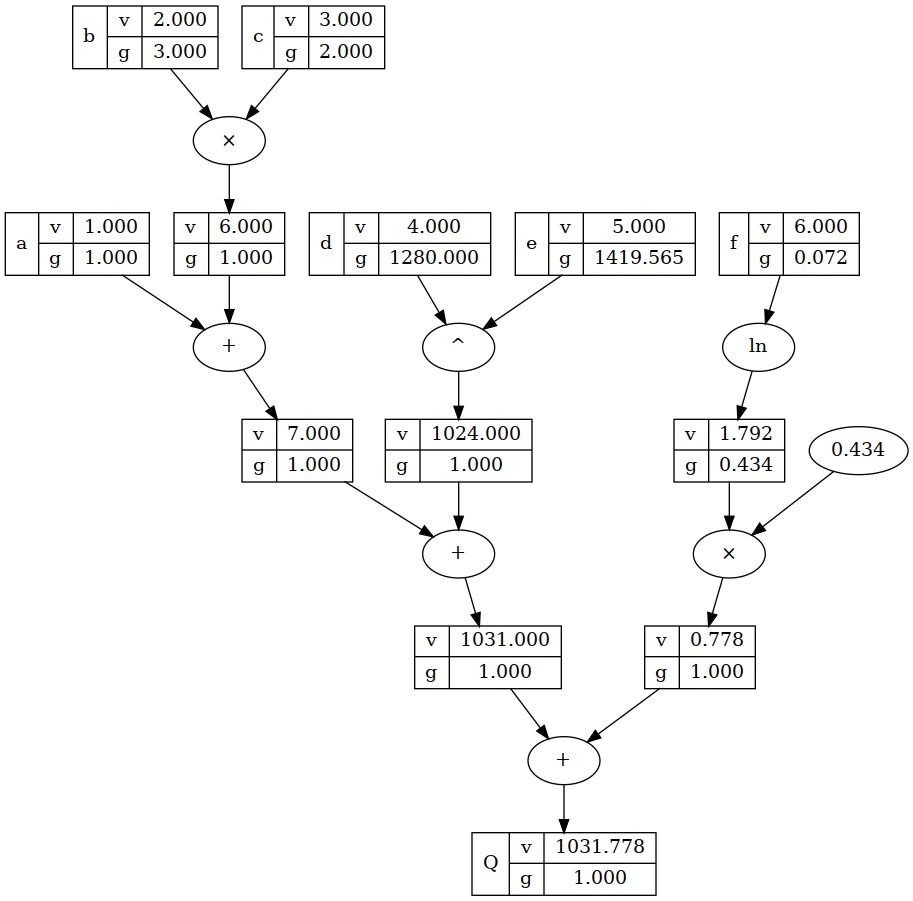
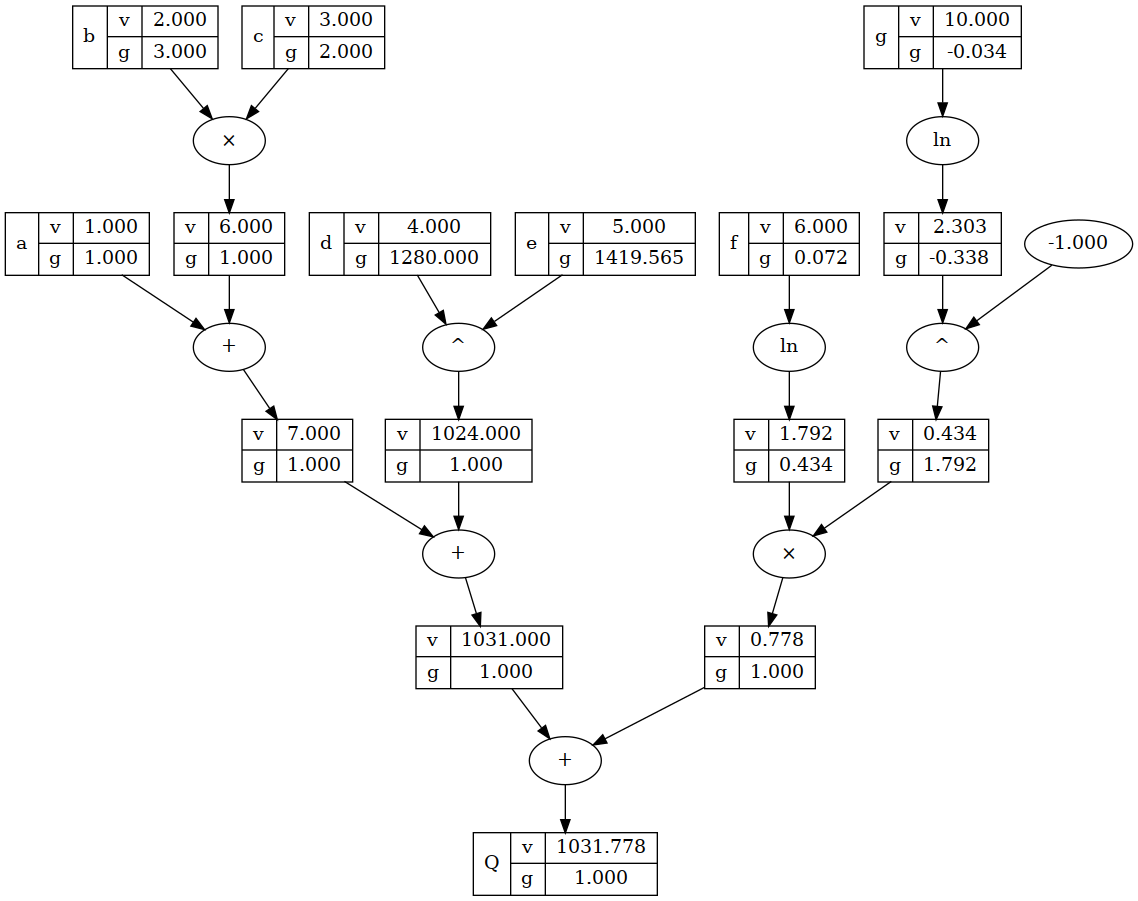
support variable base in the logarithm

diff --git a/autograd/util.py b/autograd/util.py
@@ -16,13 +16,17 @@ def exp(x: Union[Variable, Number]) -> Union[Variable, Number]:
         raise TypeError(f"unsupported argument type for exp: '{type(x)}'")
 
 
-def log(x: Union[Variable, Number], b: Number = None) -> Union[Variable, Number]:
+def log(x: Union[Variable, Number], b: Union[Variable, Number] = None) -> Union[Variable, Number]:
+    denominator = log(b) if b is not None else None
+
     if isinstance(x, Number):
-        if b is not None: 
-            return np.log(x) / np.log(b)
-        else:
-            return np.log(x)
+        result = np.log(x)
     if isinstance(x, Variable):
-        return variable_log(x, b)
+        result = variable_log(x)
     else:
         raise TypeError(f"unsupported argument type for log: '{type(x)}'")
+
+    if denominator is not None:
+        return result / denominator
+    else:
+        return result

diff --git a/test/test_log.py b/test/test_log.py
@@ -19,3 +19,23 @@ def test_log_backward_would_return_corect_gradient():
     y.backward()
 
     assert x.grad == 0.5
+
+
+def test_log_variable_base_would_return_correct_result():
+    x = Variable(4.0)
+    b = Variable(2.0)
+
+    y = log(x, b)
+
+    assert almost_equal(y.value, 2.0)
+
+
+def test_log_variable_base_backward_would_return_corect_gradient():
+    x = Variable(4.0)
+    b = Variable(2.0)
+
+    y = log(x, b)
+    y.backward()
+
+    assert almost_equal(x.grad, 0.25 * 1 / np.log(2.0))
+    assert almost_equal(b.grad, np.log(4.0) * -0.5 / (np.log(2.0) ** 2))

diff --git a/autograd/operations/log.py b/autograd/operations/log.py
@@ -15,11 +15,8 @@ class NaturalLogarithm(UnaryOperator):
         self.x.backward(grad / self.x.value)
 
 
-def variable_log(self: Variable, other: Number = None) -> Variable:
+def variable_log(self: Variable) -> Variable:
         result = np.log(self.value)
         op = NaturalLogarithm(self)
         
-        if other is None:
-            return Variable(result, op)
-        else:
-            return Variable(result, op) / np.log(other)
+        return Variable(result, op)

diff --git a/visualize.py b/visualize.py
@@ -7,8 +7,9 @@ c = Variable(3.0, name='c')
 d = Variable(4.0, name='d')
 e = Variable(5.0, name='e')
 f = Variable(6.0, name='f')
+g = Variable(10.0, name='g')
 
-Q = a + b * c + d ** e + log(f, 10)
+Q = a + b * c + d ** e + log(f, g)
 Q.name = 'Q'
 Q.backward()
 

diff --git a/README.md b/README.md
@@ -30,7 +30,7 @@ X = [1.0, 1.0], y_p = 0.911975431040061, y = 1.0
 
 `visualize.py` contains an example of visualizing the computational graph of the following equation:
 
-$$Q = a + b \cdot c + d ^ e + \log_{10}(f)$$
+$$Q = a + b \cdot c + d ^ e + \log_{g}(f)$$
 
 ![Computational Graph](graph.png)
 
